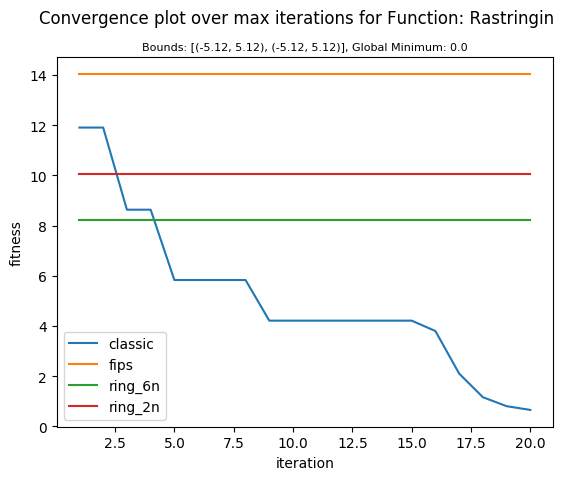
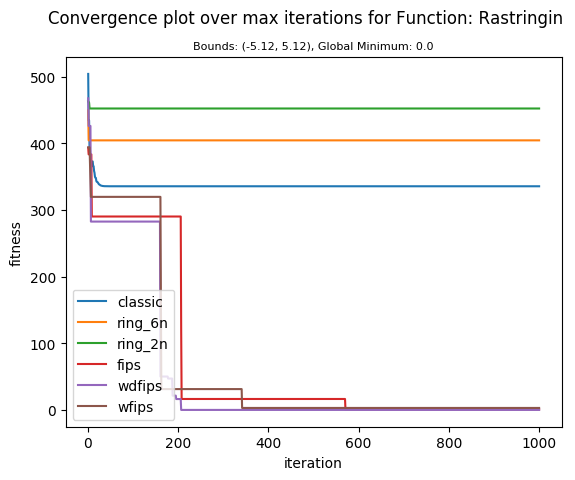
fix fips model + new benchmark functions + experiments from mendes et al

diff --git a/util/run.py b/util/run.py
@@ -2,33 +2,36 @@ from classic.GlobalSwarm import *
 from ring.LocalSwarm import *
 from lips.LIPSSwarm import *
 from fips.FIPSSwarm import *
-from util.BenchmarkFunctions import BenchmarkFunctions as Functions
 from evaluation.Evaluation import *
 from evaluation.PlotData import *
 
 
-def run_repetitions(func, function_name, bounds,  minimum):
+def repetitions(func, function_name, bounds,  minimum):
     final = []
     algorithms = ['classic', 'ring_2n', 'ring_6n', 'fips']
 
     # iterations
-    for max_iter in range(200, 2200, 200):
+    for max_iter in range(100, 2100, 100):
         print("max iteration: ", max_iter)
 
         # Initialize Optimization Algorithms
         classic = GlobalSwarm(function=func, bounds=bounds, swarm_size=10, max_iter=max_iter)
         ring = LocalSwarm(function=func, bounds=bounds, n_size=2, swarm_size=10, max_iter=max_iter)
         ring2 = LocalSwarm(function=func, bounds=bounds, n_size=6, swarm_size=10, max_iter=max_iter)
-        fips = FIPSSwarm(function=func, bounds=bounds, swarm_size=10, nsize=2, max_iter=max_iter)
+        fips = FIPSSwarm(function=func, bounds=bounds, swarm_size=10, nsize=2, w_type='static', max_iter=max_iter)
+        wfips = FIPSSwarm(function=func, bounds=bounds, swarm_size=10, nsize=2, w_type='fitness', max_iter=max_iter)
+        wdfips = FIPSSwarm(function=func, bounds=bounds, swarm_size=10, nsize=2, w_type='distance', max_iter=max_iter)
         # lips = LIPSSwarm(function=func, bounds=bounds, swarm_size=50, nsize=2, max_iter=max_iter)
 
         classic_errors = []
         ring_errors = []
         ring2_errors = []
         fips_errors = []
+        wfips_errors = []
+        wdfips_errors = []
 
         # repetitions
-        for r in range(50):
+        for r in range(20):
             classic_gbest, classic_gbests = classic.main()
             classic_errors.append(classic_gbest)
             ring_gbest, ring_gbests = ring.main()
@@ -37,76 +40,52 @@ def run_repetitions(func, function_name, bounds,  minimum):
             ring2_errors.append(ring2_gbest)
             fips_gbest, fips_gbests = fips.main()
             fips_errors.append(fips_gbest)
+            wfips_gbest, wfips_gbests = wfips.main()
+            wfips_errors.append(wfips_gbest)
+            wdfips_gbest, wdfips_gbests = wdfips.main()
+            wdfips_errors.append(wdfips_gbest)
 
         classic_avg = Evaluation.error_average(classic_errors)
         ring_avg = Evaluation.error_average(ring_errors)
         ring2_avg = Evaluation.error_average(ring2_errors)
         fips_avg = Evaluation.error_average(fips_errors)
+        wfips_avg = Evaluation.error_average(wfips_errors)
+        wdfips_avg = Evaluation.error_average(wdfips_errors)
 
         final.append({'classic': [max_iter, classic_avg]})
         final.append({'ring_2n': [max_iter, ring_avg]})
         final.append({'ring_6n': [max_iter, ring2_avg]})
         final.append({'fips': [max_iter, fips_avg]})
+        final.append({'wfips': [max_iter, wfips_avg]})
+        final.append({'wdfips': [max_iter, wdfips_avg]})
 
     print("PLOTTING...")
 
     PlotData.convergence_iteration_plot(algorithms, final, function_name, bounds, minimum)
 
 
-def run_no_repetitions(max_iter, func, function_name, bounds, minimum):
+def no_repetitions(max_iter, func, function_name, bounds, minimum):
     # Initialize Optimization Algorithms
     classic = GlobalSwarm(function=func, bounds=bounds, swarm_size=10, max_iter=max_iter)
     ring = LocalSwarm(function=func, bounds=bounds, n_size=2, swarm_size=10, max_iter=max_iter)
     ring2 = LocalSwarm(function=func, bounds=bounds, n_size=6, swarm_size=10, max_iter=max_iter)
-    fips = FIPSSwarm(function=func, bounds=bounds, swarm_size=10, nsize=2, max_iter=max_iter)
+    fips = FIPSSwarm(function=func, bounds=bounds, swarm_size=10, nsize=2, w_type='static', max_iter=max_iter)
+    wfips = FIPSSwarm(function=func, bounds=bounds, swarm_size=10, nsize=2, w_type='fitness', max_iter=max_iter)
+    wdfips = FIPSSwarm(function=func, bounds=bounds, swarm_size=10, nsize=2, w_type='distance', max_iter=max_iter)
 
     classic_gbest, classic_gbests = classic.main()
     ring_gbest, ring_gbests = ring.main()
     ring2_gbest, ring2_gbests = ring2.main()
     fips_gbest, fips_gbests = fips.main()
+    wfips_gbest, wfips_gbests = wfips.main()
+    wdfips_gbest, wdfips_gbests = wdfips.main()
 
     data = {'classic': classic_gbests,
             'ring_2n': ring_gbests,
             'ring_6n': ring2_gbests,
-            'fips': fips_gbests}
+            'fips': fips_gbests,
+            'wfips': wfips_gbests,
+            'wdfips': wdfips_gbests}
 
     print("PLOTTING...")
     PlotData.convergence_plot(data, function_name, bounds, minimum)
-
-# Select bounds according to function
-# Any bounds ->> sphere, rosenbrock
-# booth, matyas, levi_13, cross_in_tray, holder_table
-bounds1 = [(-10, 10), (-10, 10)]
-# ackley, himmelblaus, three_hump_camel
-bounds2 = [(-5, 5), (-5, 5)]
-# rastringin
-rastringin_bounds = [(-5.12, 5.12), (-5.12, 5.12)]
-# beale
-beale_bounds = [(-4.5, 4.5), (-4.5, 4.5)]
-# goldstein_price
-goldstein_bounds = [(-2, 2), (-2, 2)]
-# bukin_6
-bukin_bounds = [(-15, 3), (-5, 3)]
-
-# special global minimum
-global_minimum = 0.0  # other functions
-goldstein_minimum = 3
-cross_in_tray_minimum = -2.06261
-holder_table_minimum = -19.2085
-
-functions_name = ["Rastringin", "Ackley", "Sphere", "Rosenbrock", "Beale",
-                  "Goldstein_price", "Booth", "Buking_N6", "Matyas", "Levi_N13",
-                  "Three_hump_camel"]
-functions = [Functions.rastringin, Functions.ackley, Functions.sphere,
-             Functions.rosenbrock, Functions.beale, Functions.goldstein_price,
-             Functions.booth, Functions.bukin_6, Functions.matyas, Functions.levi_13,
-             Functions.three_hump_camel]
-minimus = [global_minimum, global_minimum, global_minimum, global_minimum,
-           global_minimum, goldstein_minimum, global_minimum, global_minimum, global_minimum,
-           global_minimum, global_minimum]
-bounds_ = [rastringin_bounds, bounds2, bounds1, bounds1, beale_bounds, goldstein_bounds, bounds1,
-           bukin_bounds, bounds1, bounds1, bounds2]
-
-for i in range(0, len(functions_name)):
-    run_repetitions(functions[i], functions_name[i], bounds_[i], minimus[i])
-    # run_no_repetitions(20, functions[i], functions_name[i], bounds_[i], minimus[i])

diff --git a/experiments.py b/experiments.py
@@ -1,0 +1,45 @@
+from util.BenchmarkFunctions import BenchmarkFunctions as Functions
+from util.run import no_repetitions
+
+''' Tests with 2 dimensions '''
+
+# Select bounds according to function
+bounds1 = [(-10, 10), (-10, 10)]  # booth, matyas, levi_13, cross_in_tray, holder_table
+bounds2 = [(-5, 5), (-5, 5)]  # ackley, himmelblaus, three_hump_camel
+sphere_bounds = [(-100, 100), (-100, 100)]  # sphere
+rosenbrock_bounds = [(-30, 30), (-30, 30)]  # rosenbrock
+griewank_bounds = [(-600, 600), (-600, 600)]  # Griewank 10 dimensions
+schaffer_bounds = [(-100, 100), (-100, 100)]  # Schaffer N6
+rastringin_bounds = [(-5.12, 5.12), (-5.12, 5.12)]  # rastringin
+beale_bounds = [(-4.5, 4.5), (-4.5, 4.5)]  # beale
+goldstein_bounds = [(-2, 2), (-2, 2)]  # goldstein_price
+bukin_bounds = [(-15, 3), (-5, 3)]  # bukin_6
+
+# special global minimum
+global_minimum = 0.0  # other functions
+goldstein_minimum = 3
+cross_in_tray_minimum = -2.06261
+holder_table_minimum = -19.2085
+
+functions_name = ["Rastringin", "Sphere", "Rosenbrock", "Ackley", "Beale",
+                  "Goldstein_price", "Booth", "Buking_N6", "Matyas", "Levi_N13",
+                  "Three_hump_camel"]
+
+functions = [Functions.rastringin, Functions.sphere, Functions.rosenbrock,
+             Functions.ackley, Functions.beale, Functions.goldstein_price,
+             Functions.booth, Functions.bukin_6, Functions.matyas, Functions.levi_13,
+             Functions.three_hump_camel]
+
+minimus = [global_minimum, global_minimum, global_minimum, global_minimum,
+           global_minimum, goldstein_minimum, global_minimum, global_minimum, global_minimum,
+           global_minimum, global_minimum]
+
+bounds_ = [rastringin_bounds, sphere_bounds, rosenbrock_bounds, bounds2,
+           beale_bounds, goldstein_bounds, bounds1,
+           bukin_bounds, bounds1, bounds1, bounds2]
+
+
+for i in range(0, len(functions_name)):
+    print(functions_name[i])
+    # run_repetitions(functions[i], functions_name[i], bounds_[i], minimus[i])
+    no_repetitions(100, functions[i], functions_name[i], bounds_[i], minimus[i])

diff --git a/beans/ParticleFIPS.py b/beans/ParticleFIPS.py
@@ -20,31 +20,43 @@ class ParticleFIPS(Particle):
 
         self.n_size = len(self.neighbors)
 
-    def update_velocity(self, inertia_w, dimensions):
+    def update_velocity(self, inertia_w, dimensions, w_type):
         phi = self.calculate_phi()
-        p = self.calculate_p(phi, dimensions)
+        p = self.calculate_p(phi, dimensions, w_type)
 
         phi_ = 0
         for i in range(0, len(phi)):
-            phi_ *= phi[i]
+            phi_ += phi[i]
 
         for d in range(0, dimensions):
             self.velocity[d] = inertia_w * (self.velocity[d] + phi_ * (p[d] - self.position[d]))
 
-    def calculate_p(self, phi, dimensions):
+    def calculate_p(self, phi, dimensions, w_type):
         p = []
         numerator = 0
         divisor = 0
 
-        for k in range(0, len(self.neighbors)):
-            for d in range(dimensions):
-                k_fitness = self.neighbors[k].error_best
-                numerator += k_fitness * phi[k] * self.neighbors[k].pbest[d]
-                divisor += k_fitness * phi[k]
+        for d in range(dimensions):
+            for k in range(0, len(self.neighbors)):
+                w_value = self.get_w(k, w_type)
+                numerator += w_value * phi[k] * self.neighbors[k].pbest[d]
+                divisor += w_value * phi[k]
 
             p.append(numerator / divisor)
 
         return p
+
+    def get_w(self, k, w_type):
+        if w_type == 'static':  # FIPS
+            return 0.5
+        elif w_type == 'fitness':  # wFIPS
+            return self.neighbors[k].error_best
+        elif w_type == 'distance':  # wdFIPS
+            distance = Neighborhood.euclidian_dist(self.position, self.neighbors[k].pbest)
+            if distance < 0.001:
+                return 0.001
+            else:
+                return distance
 
     def calculate_phi(self):
 

diff --git a/mendes_fips.py b/mendes_fips.py
@@ -1,0 +1,37 @@
+from util.BenchmarkFunctions import BenchmarkFunctions as Functions
+from util.run import *
+
+'''
+    EXPERIMENTS REPRODUTION FOR
+    The Fully Informed Particle Swarm: Simpler, Maybe Better
+    Rui Mendes, James Kennedy and José Neves
+'''
+
+# functions bounds
+sphere_bounds = [(-100, 100)] * 30  # sphere
+rosenbrock_bounds = [(-30, 30)] * 30  # rosenbrock
+rastringin_bounds = [(-5.12, 5.12)] * 30  # rastringin
+griewank_bounds_10d = [(-600, 600)] * 10  # Griewank 10 dimensions
+griewank_bounds_30d = [(-600, 600)] * 30  # Griewank 30 dimensions
+schaffer_bounds = [(-100, 100), (-100, 100)]  # Schaffer N6
+
+# minimum global
+global_minimum = 0.0
+
+# functions
+functions_name = ["Rastringin", "Sphere", "Rosenbrock",
+                  "Griewank_10d", "Griewank_30d", "Schaffer_n6"]
+
+# initialize execution parameters
+functions = [Functions.rastringin, Functions.sphere, Functions.rosenbrock,
+             Functions.griewank, Functions.griewank, Functions.schaffer_n6]
+minimus = [global_minimum, global_minimum, global_minimum,
+           global_minimum, global_minimum, global_minimum]
+bounds_ = [rastringin_bounds, sphere_bounds, rosenbrock_bounds,
+           griewank_bounds_10d, griewank_bounds_30d, schaffer_bounds]
+
+# execution
+for i in range(0, len(functions)):
+    print(functions_name[i])
+    repetitions(functions[i], functions_name[i], bounds_[i], minimus[i])
+    # no_repetitions(1000, functions[i], functions_name[i], bounds_[i], minimus[i])

diff --git a/evaluation/PlotData.py b/evaluation/PlotData.py
@@ -34,7 +34,7 @@ class PlotData(object):
             line, = plt.plot(x, y, label=label, marker=marker)
             lines.append(line)
         plt.suptitle("Average fitness over max iterations for Function: %s" % function_name)
-        plt.title("Bounds: %s, Global Minimum: %s" % (bounds, minimum), fontdict={'fontsize': 8})
+        plt.title("Bounds: %s, Global Minimum: %s" % (bounds[0], minimum), fontdict={'fontsize': 8})
         plt.xlabel('max iterations')
         plt.ylabel('fitness')
         plt.legend(lines, names)
@@ -56,7 +56,7 @@ class PlotData(object):
             lines.append(line)
 
         plt.suptitle("Convergence plot over max iterations for Function: %s" % function_name)
-        plt.title("Bounds: %s, Global Minimum: %s" % (bounds, minimum), fontdict={'fontsize': 8})
+        plt.title("Bounds: %s, Global Minimum: %s" % (bounds[0], minimum), fontdict={'fontsize': 8})
         plt.xlabel('iteration')
         plt.ylabel('fitness')
         plt.legend(lines, names)

diff --git a/util/Neighborhood.py b/util/Neighborhood.py
@@ -4,11 +4,11 @@ import math
 class Neighborhood(object):
 
     @staticmethod
-    def euclidian_dist(pbest, neighbor):
+    def euclidian_dist(particle_position, neighbor_position):
         distance = 0
 
-        for i in range(0, len(pbest)):
-            distance += (neighbor.pbest[i] - pbest[i]) ** 2
+        for i in range(0, len(particle_position)):
+            distance += (particle_position[i] - neighbor_position[i]) ** 2
 
         return math.sqrt(distance)
 
@@ -38,11 +38,10 @@ class Neighborhood(object):
         distances = []
 
         for i in range(len(swarm)):
-            distance = Neighborhood.euclidian_dist(particle, swarm[i])
+            distance = Neighborhood.euclidian_dist(particle.pbest, swarm[i].pbest)
             distances.append([i, distance])
 
         distances = sorted(distances, key=use_distance)
-
         neighbors = []
         for j in range(1, n_size + 1):
             neighbors.append(swarm[distances[j][0]])

diff --git a/fips/FIPSSwarm.py b/fips/FIPSSwarm.py
@@ -4,13 +4,14 @@ from random import uniform
 
 class FIPSSwarm(object):
 
-    def __init__(self, function, bounds, swarm_size, nsize, max_iter, inertia_w=0.7298):
+    def __init__(self, function, bounds, swarm_size, nsize, max_iter, w_type, inertia_w=0.7298):
         self.function = function
         self.bounds = bounds
         self.dimensions = len(bounds)
         self.swarm_size = swarm_size
         self.nsize = nsize
         self.max_iter = max_iter
+        self.w_type = w_type
         self.inertia_w = inertia_w
 
     @staticmethod
@@ -52,7 +53,7 @@ class FIPSSwarm(object):
             for i in range(0, len(swarm)):
                 swarm[i].get_neighbors(i, self.nsize, swarm)
 
-                swarm[i].update_velocity(self.inertia_w, self.dimensions)
+                swarm[i].update_velocity(self.inertia_w, self.dimensions, self.w_type)
 
                 swarm[i].update_position(self.bounds, self.dimensions)
 

diff --git a/util/BenchmarkFunctions.py b/util/BenchmarkFunctions.py
@@ -51,6 +51,33 @@ class BenchmarkFunctions(object):
 
         return total
 
+    # global minimum
+    # f(x*) = 0 -> x* = (0, ..., 0)
+    # -600 <= xi <= 600
+    @staticmethod
+    def griewank(position):
+        a = 0
+        for i in range(1, len(position)+1):
+            a += (position[i-1]**2)/4000
+
+        b = 0
+        for i in range(1, len(position)+1):
+            b *= math.cos(position[i-1]/math.sqrt(i)) + 1
+
+        return a - b
+
+    # Global minimum
+    # f(x*) = 0 -> x* = 0
+    # -100 <= xi <= 100
+    @staticmethod
+    def schaffer_n6(position):
+        x = position[0]
+        y = position[1]
+
+        a = math.sin(math.sqrt(x**2 + y**2)) - 0.5
+        b = (1 + 0.001 * (x**2 + y**2))**2
+
+        return 0.5 + (a/b)
 
     # global minimum
     # f(3,0.5)=0

diff --git a/README.md b/README.md
@@ -1,2 +1,20 @@
 # PSO-Project
-Projeto da disciplina Inteligência de Enxames. 2018.1
+###### Projeto da disciplina Inteligência de Enxames. 2018.1
+
+Some baseline implementations of Particle Swarm Optimizers.
+1. Classical (gBest and lBest models)
+2. FIPS (Cellular PSO with rind topology); &
+3. LIPS (Niche PSO).
+
+####References:
+
+* R. Eberhart and J. Kennedy, **"A new optimizer using particle swarm theory"** Micro Machine and Human Science, 1995. MHS '95., Proceedings of the Sixth International Symposium on, Nagoya, 1995, pp. 39-43.
+doi: 10.1109/MHS.1995.494215. 
+[[URL]](http://ieeexplore.ieee.org/stamp/stamp.jsp?tp=&arnumber=494215&isnumber=10679)
+
+* R. Mendes, J. Kennedy and J. Neves, **"The fully informed particle swarm: simpler, maybe better"** in IEEE Transactions on Evolutionary Computation, vol. 8, no. 3, pp. 204-210, June 2004.
+doi: 10.1109/TEVC.2004.826074. 
+[[URL]](http://ieeexplore.ieee.org/stamp/stamp.jsp?tp=&arnumber=1304843&isnumber=28981)
+
+* B. Y. Qu, P. N. Suganthan and S. Das, **"A Distance-Based Locally Informed Particle Swarm Model for Multimodal Optimization"** in IEEE Transactions on Evolutionary Computation, vol. 17, no. 3, pp. 387-402, June 2013.
+[[URL]](http://ieeexplore.ieee.org/stamp/stamp.jsp?tp=&arnumber=6213105&isnumber=6519957)
